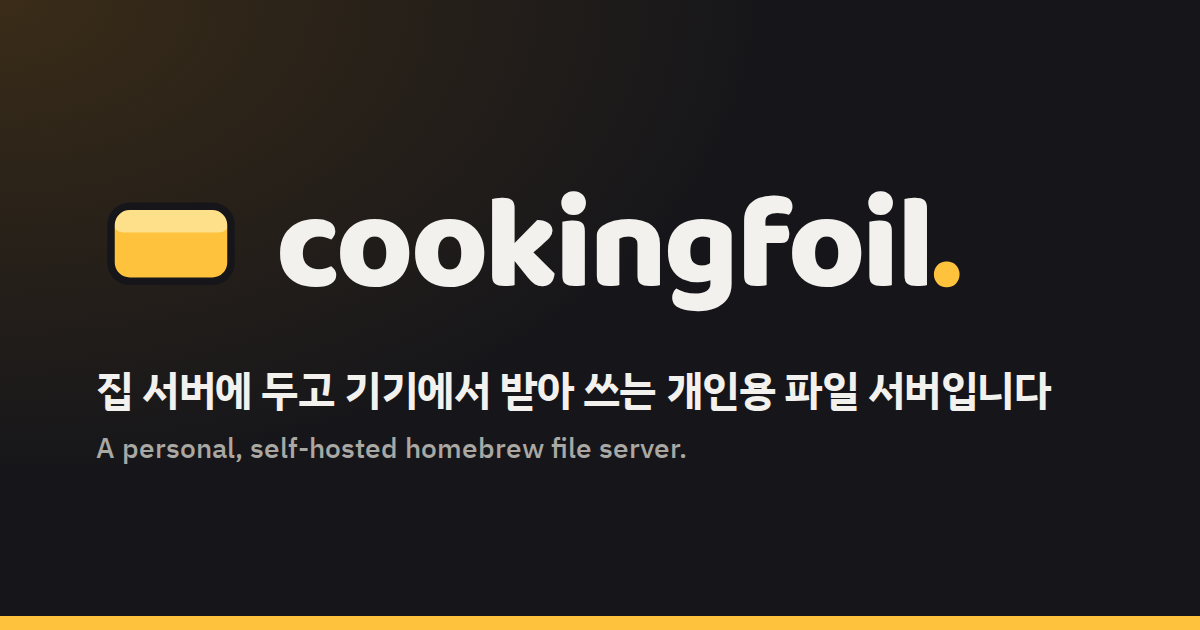
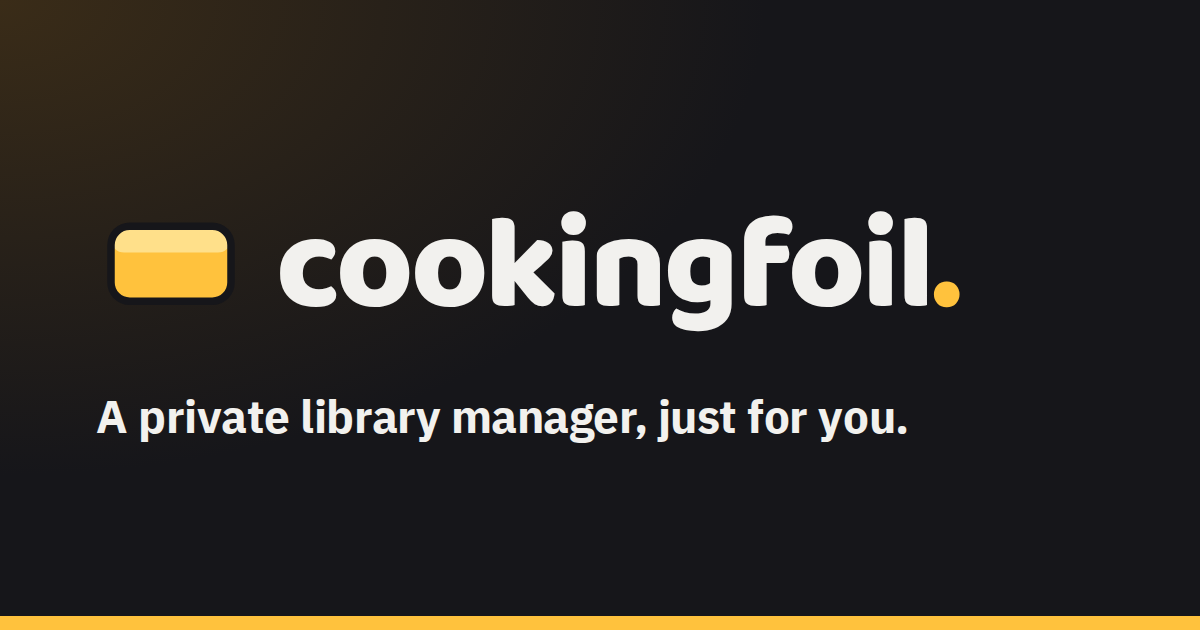
fix: 공유 카드를 언어별로 나눕니다
한 이미지에 한글과 영어 문구를 함께 박지 않고, 언어마다 그 언어 문구 하나만
든 이미지를 둡니다(og-image.png 는 영어, og-image-ko|ja|zh.png). 로그인
페이지는 요청 언어의 이미지와 설명을 내보내고, 언어를 밝히지 않는 미리보기
봇은 영어 카드를 받습니다. 랜딩과 공개 사이트의 설명도 영어 기본으로 맞춥니다.

Changed region(s): [[0.0617, 0.573, 0.8942, 0.754], [0.0925, 0.3016, 0.8017, 0.5429]]

diff --git a/src/views/share-meta.js b/src/views/share-meta.js
@@ -1,28 +1,45 @@
 /**
  * The link-preview card (Open Graph / Twitter) for pages a shared link can land
  * on without signing in. A shared server address redirects to /login, so the
- * card has to be there as well as on the landing page (landing.html, same text).
+ * card has to be there as well as on the landing page (landing.html).
+ *
+ * The card is in the visitor's language (meta/categories.js requestLang; a
+ * preview fetcher that names none gets English). Each image carries only its
+ * own tagline; they are drawn by ~/app/cookingfoil-ops/og-image.mjs from the
+ * same lines as SHARE_TAGLINES below.
  */
 export const SHARE_TITLE = "CookingFoil";
-export const SHARE_DESCRIPTION = "개인을 위한 비공개 라이브러리 관리자입니다.";
+export const SHARE_LANGS = ["en", "ko", "ja", "zh"];
+export const SHARE_TAGLINES = {
+  en: "A private library manager, just for you.",
+  ko: "개인을 위한 비공개 라이브러리 관리자입니다.",
+  ja: "あなただけの非公開ライブラリマネージャーです。",
+  zh: "专属于你的私人资料库管理器。",
+};
 const SAFE_ORIGIN = /^https?:\/\/[A-Za-z0-9.\-[\]:]+(\/[A-Za-z0-9._~%/-]*)?$/;
 
+/** The image path for a language: English is the plain og-image.png. Pure. */
+export const shareImagePath = (lang) => (lang !== "en" && SHARE_LANGS.includes(lang) ? `/assets/og-image-${lang}.png` : "/assets/og-image.png");
+
 /** The card's meta tags; the image URL is absolute when `origin` is a plain origin, relative otherwise. Pure. */
-export function shareTags(origin) {
-  const image = `${SAFE_ORIGIN.test(origin ?? "") ? origin : ""}/assets/og-image.png`;
+export function shareTags(origin, lang = "en") {
+  const l = SHARE_LANGS.includes(lang) ? lang : "en";
+  const image = `${SAFE_ORIGIN.test(origin ?? "") ? origin : ""}${shareImagePath(l)}`;
+  const description = SHARE_TAGLINES[l];
   return [
-    `<meta name="description" content="${SHARE_DESCRIPTION}">`,
+    `<meta name="description" content="${description}">`,
     `<meta property="og:type" content="website">`,
     `<meta property="og:site_name" content="${SHARE_TITLE}">`,
     `<meta property="og:title" content="${SHARE_TITLE}">`,
-    `<meta property="og:description" content="${SHARE_DESCRIPTION}">`,
+    `<meta property="og:description" content="${description}">`,
+    `<meta property="og:locale" content="${{ en: "en_US", ko: "ko_KR", ja: "ja_JP", zh: "zh_CN" }[l]}">`,
     `<meta property="og:image" content="${image}">`,
     `<meta property="og:image:width" content="1200">`,
     `<meta property="og:image:height" content="630">`,
     `<meta property="og:image:alt" content="cookingfoil.">`,
     `<meta name="twitter:card" content="summary_large_image">`,
     `<meta name="twitter:title" content="${SHARE_TITLE}">`,
-    `<meta name="twitter:description" content="${SHARE_DESCRIPTION}">`,
+    `<meta name="twitter:description" content="${description}">`,
     `<meta name="twitter:image" content="${image}">`,
   ].join("");
 }

diff --git a/src/views/landing.html b/src/views/landing.html
@@ -5,19 +5,19 @@
     <meta name="viewport" content="width=device-width, initial-scale=1, viewport-fit=cover" />
     <meta name="theme-color" content="#f2f1ee" />
     <title>CookingFoil</title>
-    <meta name="description" content="개인을 위한 비공개 라이브러리 관리자입니다." />
-    <!-- share cards (same text as views/share-meta.js): the image URL gets this server's address in front when the page is served -->
+    <meta name="description" content="A private library manager, just for you." />
+    <!-- share cards (English, as views/share-meta.js gives a visitor with no language): the image URL gets this server's address in front when the page is served -->
     <meta property="og:type" content="website" />
     <meta property="og:site_name" content="CookingFoil" />
     <meta property="og:title" content="CookingFoil" />
-    <meta property="og:description" content="개인을 위한 비공개 라이브러리 관리자입니다." />
+    <meta property="og:description" content="A private library manager, just for you." />
     <meta property="og:image" content="__ORIGIN__/assets/og-image.png" />
     <meta property="og:image:width" content="1200" />
     <meta property="og:image:height" content="630" />
     <meta property="og:image:alt" content="cookingfoil." />
     <meta name="twitter:card" content="summary_large_image" />
     <meta name="twitter:title" content="CookingFoil" />
-    <meta name="twitter:description" content="개인을 위한 비공개 라이브러리 관리자입니다." />
+    <meta name="twitter:description" content="A private library manager, just for you." />
     <meta name="twitter:image" content="__ORIGIN__/assets/og-image.png" />
     <link rel="icon" href="/assets/cookingfoil.svg" type="image/svg+xml" />
     <link rel="stylesheet" href="/assets/fonts.css" />

diff --git a/test/unit/share-meta.test.js b/test/unit/share-meta.test.js
@@ -1,6 +1,7 @@
 import { test } from "node:test";
 import assert from "node:assert/strict";
-import { shareTags } from "../../src/views/share-meta.js";
+import fs from "node:fs";
+import { SHARE_LANGS, SHARE_TAGLINES, shareImagePath, shareTags } from "../../src/views/share-meta.js";
 import { loginPage } from "../../src/routes/login-page.js";
 
 test("the share card points at this server's absolute image", () => {
@@ -14,10 +15,20 @@ test("an origin that isn't plain is left out of the image URL", () => {
   assert.match(shareTags(null), /content="\/assets\/og-image\.png"/);
 });
 
-test("the sign-in page a shared link lands on carries the card", () => {
+test("each language gets its own image and words; anything else is English", () => {
+  for (const lang of SHARE_LANGS) {
+    const tags = shareTags("https://shop.example.org", lang);
+    assert.ok(tags.includes(`og-image${lang === "en" ? "" : `-${lang}`}.png`), lang);
+    assert.ok(tags.includes(SHARE_TAGLINES[lang]), lang);
+    assert.ok(fs.existsSync(new URL(`../../src/views${shareImagePath(lang)}`, import.meta.url)), `${lang} image is in the repo`);
+  }
+  assert.equal(shareTags(null, "fr"), shareTags(null, "en"));
+});
+
+test("the sign-in page a shared link lands on carries the card in its language", () => {
   for (const passwords of [true, false]) {
-    const html = loginPage({ origin: "https://shop.example.org", passwords, google: true });
+    const html = loginPage({ origin: "https://shop.example.org", passwords, google: true, lang: "ja" });
     assert.match(html, /property="og:title" content="CookingFoil"/);
-    assert.match(html, /og-image\.png/);
+    assert.match(html, /og-image-ja\.png/);
   }
 });

diff --git a/site/index.html b/site/index.html
@@ -4,12 +4,12 @@
 <meta charset="utf-8">
 <meta name="viewport" content="width=device-width,initial-scale=1">
 <title>CookingFoil</title>
-<meta name="description" content="A personal, self-hosted homebrew file server.">
+<meta name="description" content="A private library manager, just for you.">
 <meta name="theme-color" content="#16161a">
 <meta property="og:type" content="website">
 <meta property="og:site_name" content="CookingFoil">
 <meta property="og:title" content="CookingFoil">
-<meta property="og:description" content="A personal, self-hosted homebrew file server.">
+<meta property="og:description" content="A private library manager, just for you.">
 <meta property="og:url" content="https://jshsakura.github.io/oc-cookingfoil/">
 <meta property="og:image" content="https://jshsakura.github.io/oc-cookingfoil/og-image.png">
 <meta property="og:image:width" content="1200">
@@ -17,7 +17,7 @@
 <meta property="og:image:alt" content="cookingfoil.">
 <meta name="twitter:card" content="summary_large_image">
 <meta name="twitter:title" content="CookingFoil">
-<meta name="twitter:description" content="A personal, self-hosted homebrew file server.">
+<meta name="twitter:description" content="A private library manager, just for you.">
 <meta name="twitter:image" content="https://jshsakura.github.io/oc-cookingfoil/og-image.png">
 <link rel="icon" href="icon.svg" type="image/svg+xml">
 <link rel="preconnect" href="https://fonts.googleapis.com">

diff --git a/src/index.js b/src/index.js
@@ -1,5 +1,6 @@
 // First: the server does not run without the key its secrets are sealed with.
 import "./security/require-secret-key.js";
+import { SHARE_LANGS, shareImagePath } from "./views/share-meta.js";
 import express from "express";
 import net from "net";
 import { fileURLToPath } from "node:url";
@@ -212,9 +213,12 @@ expressApp.use(accessGuard());
 expressApp.get("/robots.txt", (_req, res) => res.type("text/plain").set("Cache-Control", "public, max-age=86400").send("User-agent: *\nDisallow: /\n"));
 // Crawlers that say who they are get nothing past robots.txt, not even the sign-in page.
 expressApp.use(noCrawl());
-// The share image: link previews fetch it without signing in.
-const OG_IMAGE = fileURLToPath(new URL("./views/assets/og-image.png", import.meta.url));
-expressApp.get("/assets/og-image.png", (_req, res) => res.sendFile(OG_IMAGE, { maxAge: "1d" }));
+// The share images, one per language: link previews fetch them without signing in.
+for (const lang of SHARE_LANGS) {
+  const where = shareImagePath(lang);
+  const file = fileURLToPath(new URL(`./views${where}`, import.meta.url));
+  expressApp.get(where, (_req, res) => res.sendFile(file, { maxAge: "1d" }));
+}
 // First run: until an admin account exists, browsers are sent to /setup.
 expressApp.use(setupRouter());
 

diff --git a/src/routes/login-page.js b/src/routes/login-page.js
@@ -224,7 +224,7 @@ function whoBar(t, user, csrf) {
 export function loginPage({ lang = "ko", next = "/", csrf = "", google = false, googleState = null, googleEmail = null, error = null, passwords = true, origin = null } = {}) {
   const t = textFor(lang);
   // A shared server address lands here, so the link preview card does too.
-  const head = shareTags(origin);
+  const head = shareTags(origin, lang);
   const errText = { wrong: t.errWrong, locked: t.errLocked, expired: t.errStale, google: t.errGoogle, passwordsOff: t.errPasswordsOff }[error];
   const noteText = googleState === "pending" ? t.pendingLead : googleState === "disabled" ? t.disabledLead : null;
   // No visible heading or lead line: the logo and the action carry the page; the h1 stays for screen readers.
